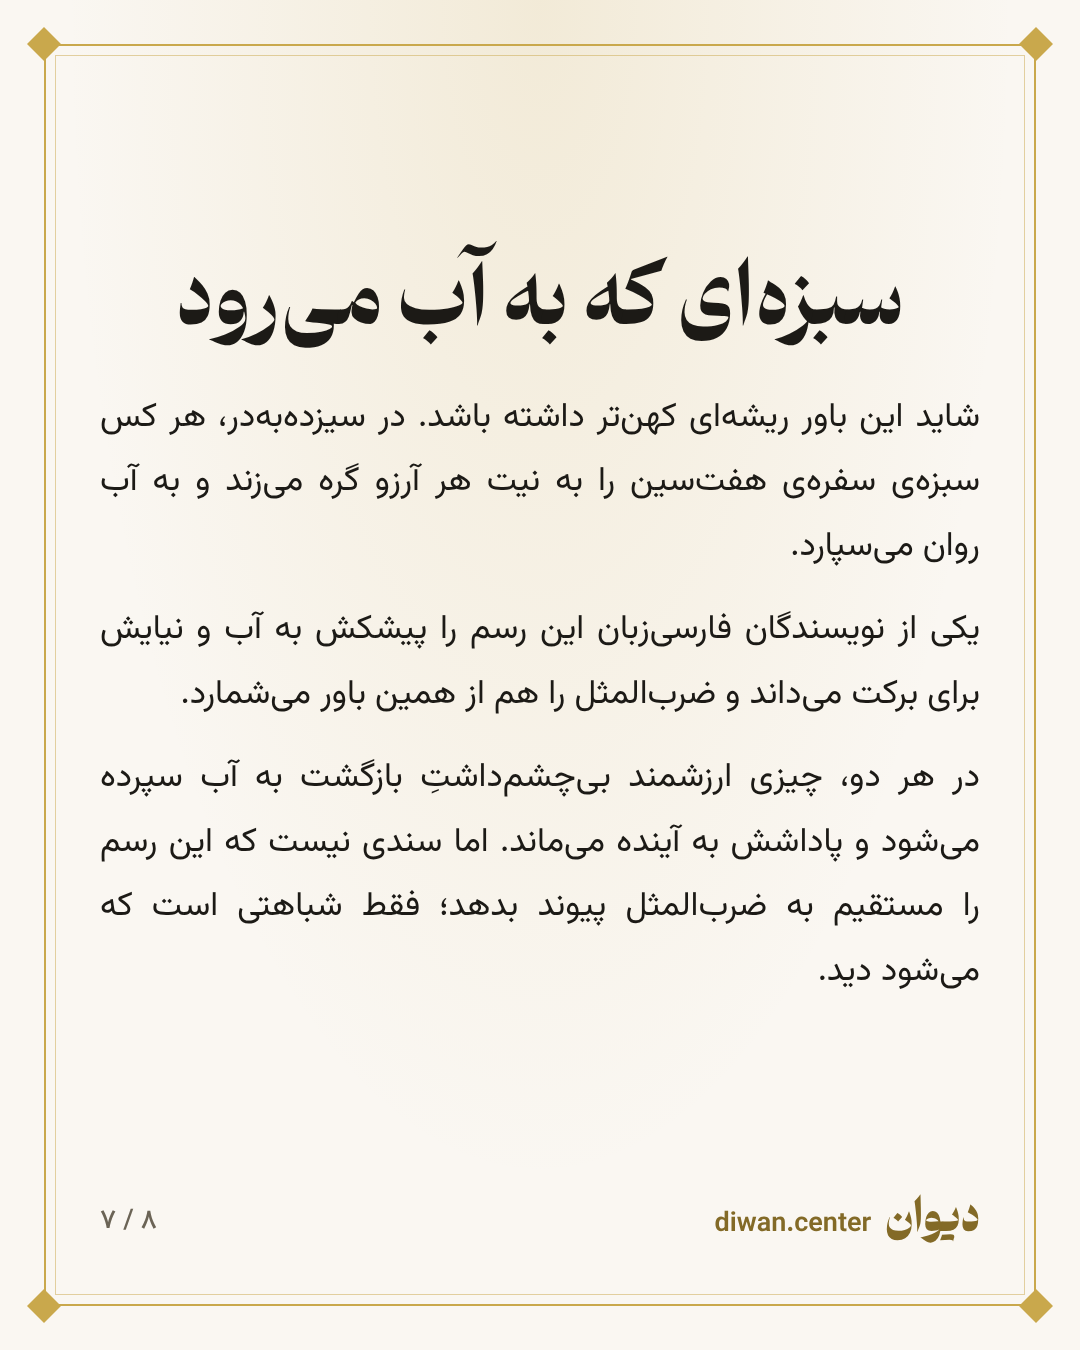
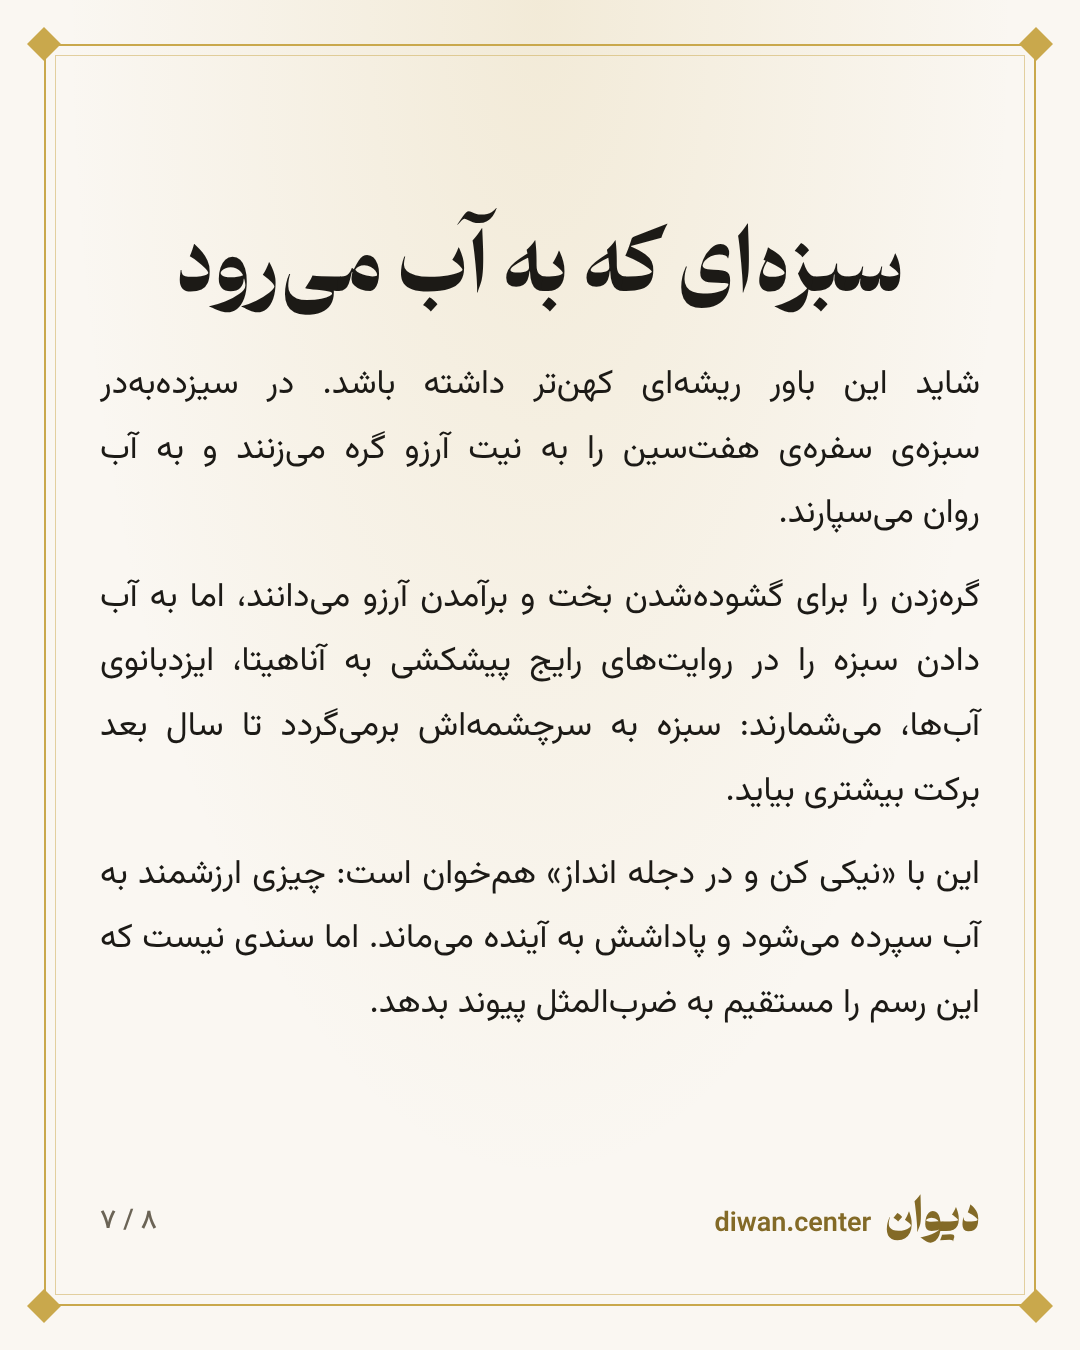
post21: revise Sizdah-be-dar slide from sources
Claude-Session: https://claude.ai/code/session_01KbXFhZ5gVHvAJQxmARukFF

diff --git a/tools/dejleh/build.py b/tools/dejleh/build.py
@@ -44,9 +44,9 @@ S=[
    ('p','پاداش هم فرق میکند: «روزی بر دهد» در قابوسنامه، و «در بیابانت دهد باز» نزد سعدی، یعنی درست در سختترین جا.'),
  ]),
  dict(k='blocks',title='سبزهای که به آب میرود',fb=34,jus=1,blocks=[
-   ('p','شاید این باور ریشهای کهنتر داشته باشد. در سیزدهبهدر، هر کس سبزهی سفرهی هفتسین را به نیت هر آرزو گره میزند و به آب روان میسپارد.'),
-   ('p','یکی از نویسندگان فارسیزبان این رسم را پیشکش به آب و نیایش برای برکت میداند و ضربالمثل را هم از همین باور میشمارد.'),
-   ('p','در هر دو، چیزی ارزشمند بیچشمداشتِ بازگشت به آب سپرده میشود و پاداشش به آینده میماند. اما سندی نیست که این رسم را مستقیم به ضربالمثل پیوند بدهد؛ فقط شباهتی است که میشود دید.'),
+   ('p','شاید این باور ریشهای کهنتر داشته باشد. در سیزدهبهدر سبزهی سفرهی هفتسین را به نیت آرزو گره میزنند و به آب روان میسپارند.'),
+   ('p','گرهزدن را برای گشودهشدن بخت و برآمدن آرزو میدانند، اما به آب دادن سبزه را در روایتهای رایج پیشکشی به آناهیتا، ایزدبانوی آبها، میشمارند: سبزه به سرچشمهاش برمیگردد تا سال بعد برکت بیشتری بیاید.'),
+   ('p','این با «نیکی کن و در دجله انداز» همخوان است: چیزی ارزشمند به آب سپرده میشود و پاداشش به آینده میماند. اما سندی نیست که این رسم را مستقیم به ضربالمثل پیوند بدهد.'),
  ]),
  dict(k='big',text='داستانت را در دیوان<br>منتشر کن؛ راهش را<br>خودش پیدا میکند.<br><span class="lt" style="display:block;font-size:.6em;margin-top:.4em;text-align:center;color:#836a27">diwan.center</span>'),
 ]
